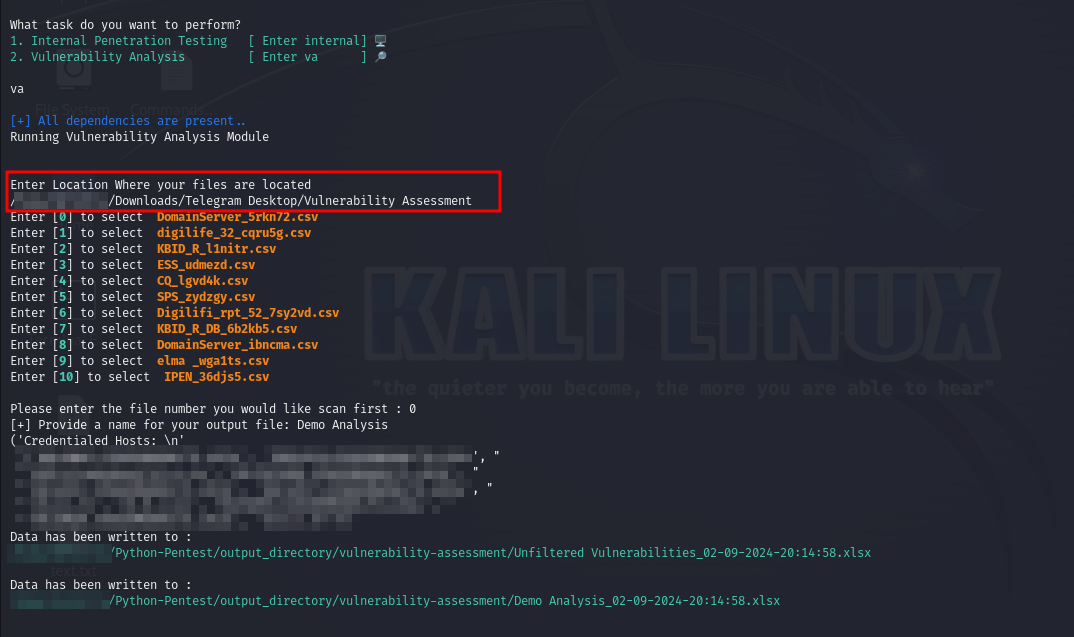
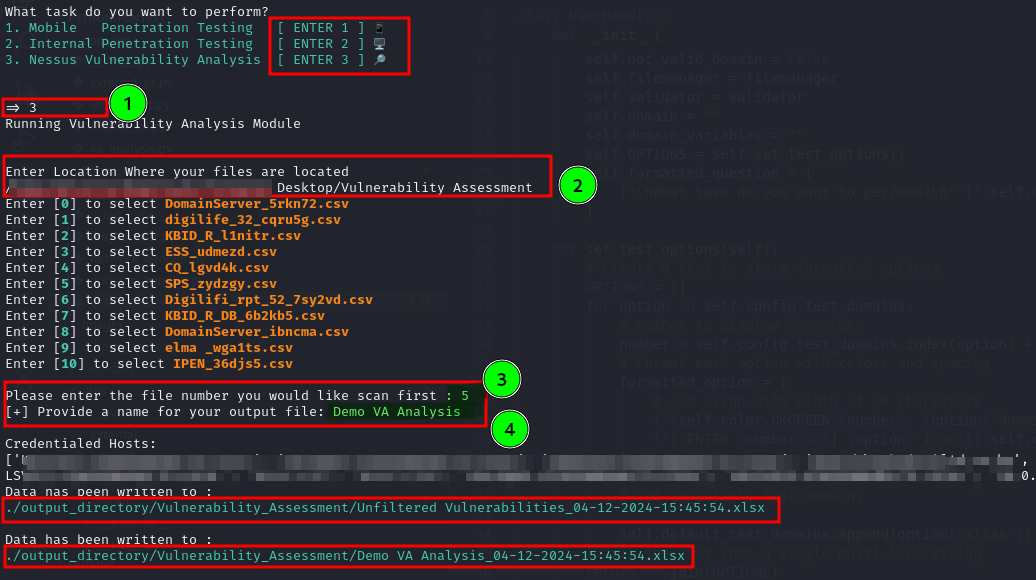
Updated readme.md file

Changed region(s): [[0.0, 0.0, 1.0, 0.9931]]

diff --git a/handlers/user_handler.py b/handlers/user_handler.py
@@ -23,7 +23,7 @@ class UserHandler:
         self.domain_variables = ""
         self.OPTIONS = self.set_test_options()
         self.formatted_question = (
-            f"\nWhat task do you want to perform?\n" f"{self.OPTIONS}\n"
+            f"\nWhat task do you want to perform?\n" f"{self.OPTIONS}\n=> "
         )
 
     def set_test_options(self):
@@ -172,7 +172,6 @@ class UserHandler:
 
         self.domain = self.default_test_domains[selected_index]
         # self.set_domain_variables(self.domain)
-        print(self.domain)
         return self.domain
 
     def get_user_subnet(self):

diff --git a/README.md b/README.md
@@ -18,10 +18,11 @@ Python scripts to aid in pentest automation.
 ## 1. Internal Penetration Testing
 
 - Focuses on enumerating an organization's _Internal Network_
-- To run the module simply enter [ **internal** ] on the provided prompt
-- Requires one to pass in an ip address in the following format (ip_address/subnet_range)
+- To run the module simply enter [ **Number displayed on Right** ] on the provided prompt
+- Requires one to pass in an ip address in the following format (ip_address/subnet)
+ 
+  ```text
   Example:
-  ```
       10.0.0.3/16
   ```
   ![Internal Module](images/internal.png)
@@ -48,7 +49,7 @@ inorder to avoid resumming from the last recorded live IP.
 ## 2. Vulnerability Analysis
 
 - This module runs an automated analysis on a **Nessus Advanced scan** and summarizes the vulnerabilities discovered
-- To run the module simply enter [ **va** ] on the provided prompt
+- To run the module simply enter [ **Number displayed on Right** ] on the provided prompt
 - It requires 2 parameters:
 
 ```text
@@ -60,7 +61,7 @@ inorder to avoid resumming from the last recorded live IP.
 ## 3. Mobile Penetration Testing
 
 
-- To run the module simply enter [ **mobile** ] on the provided prompt
+- To run the module simply enter [ **Number displayed on Right** ] on the provided prompt
 - This module performs a number of static analysis on both android and iOS (iOS coming soon)
 - It decompiles the apk file using apktool and runs regex checks on the files present on the decompiled application folder to look for
 1. Hardcoded values
@@ -78,6 +79,6 @@ inorder to avoid resumming from the last recorded live IP.
 
 [Coming Soon]
 
-- To run the module simply enter [ **external** ] on the provided prompt
+- To run the module simply enter [ **Number displayed on Right** ] on the provided prompt
 
 
